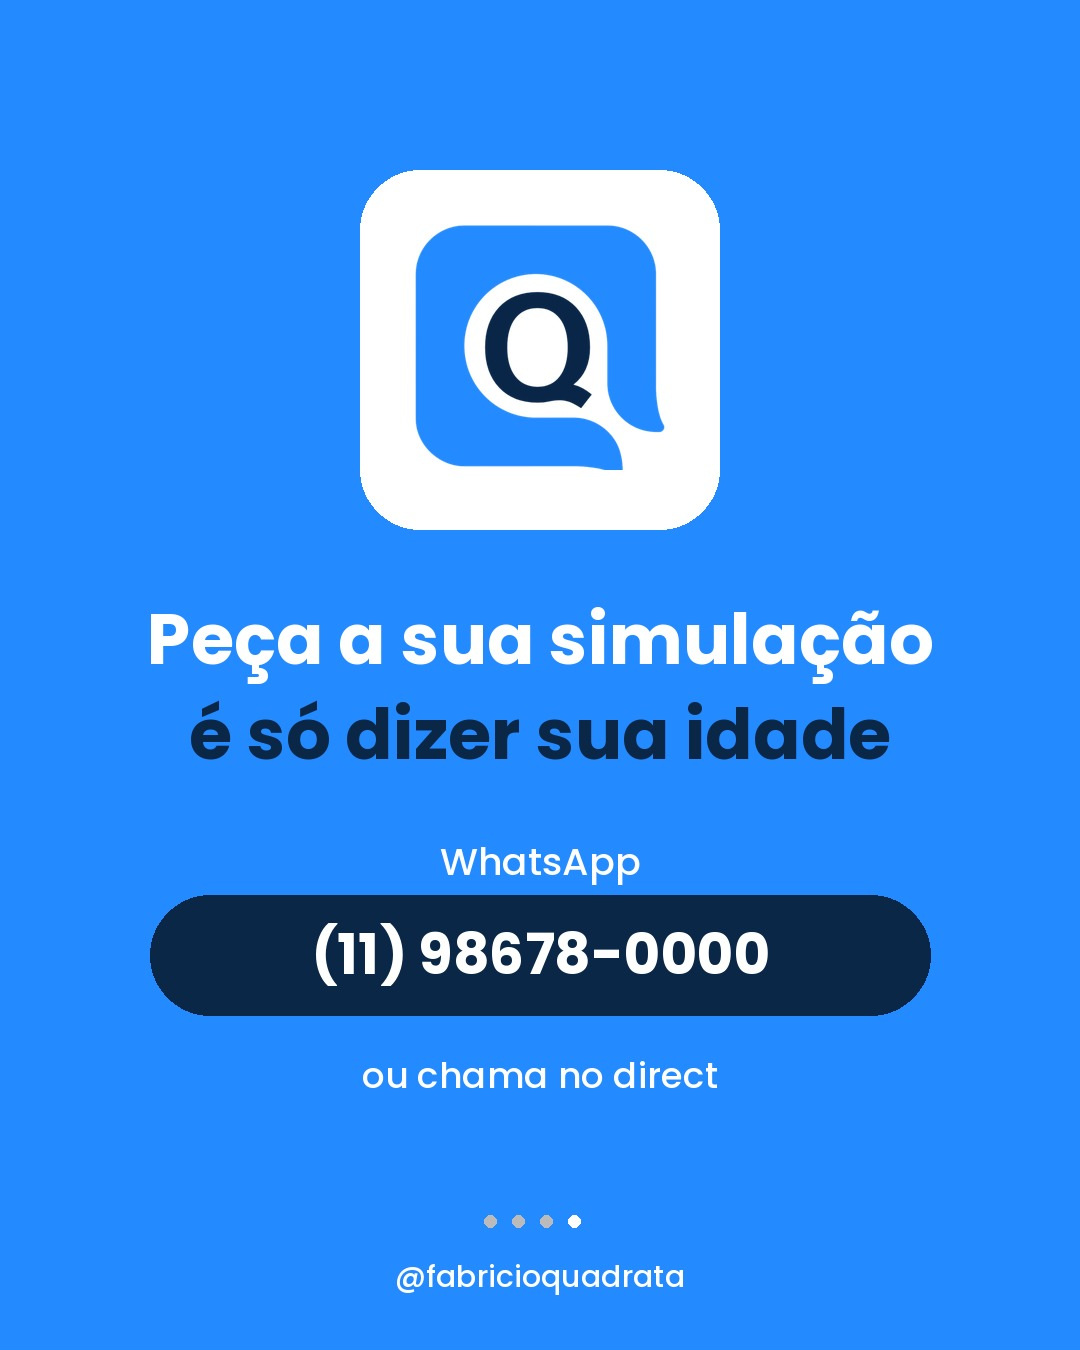
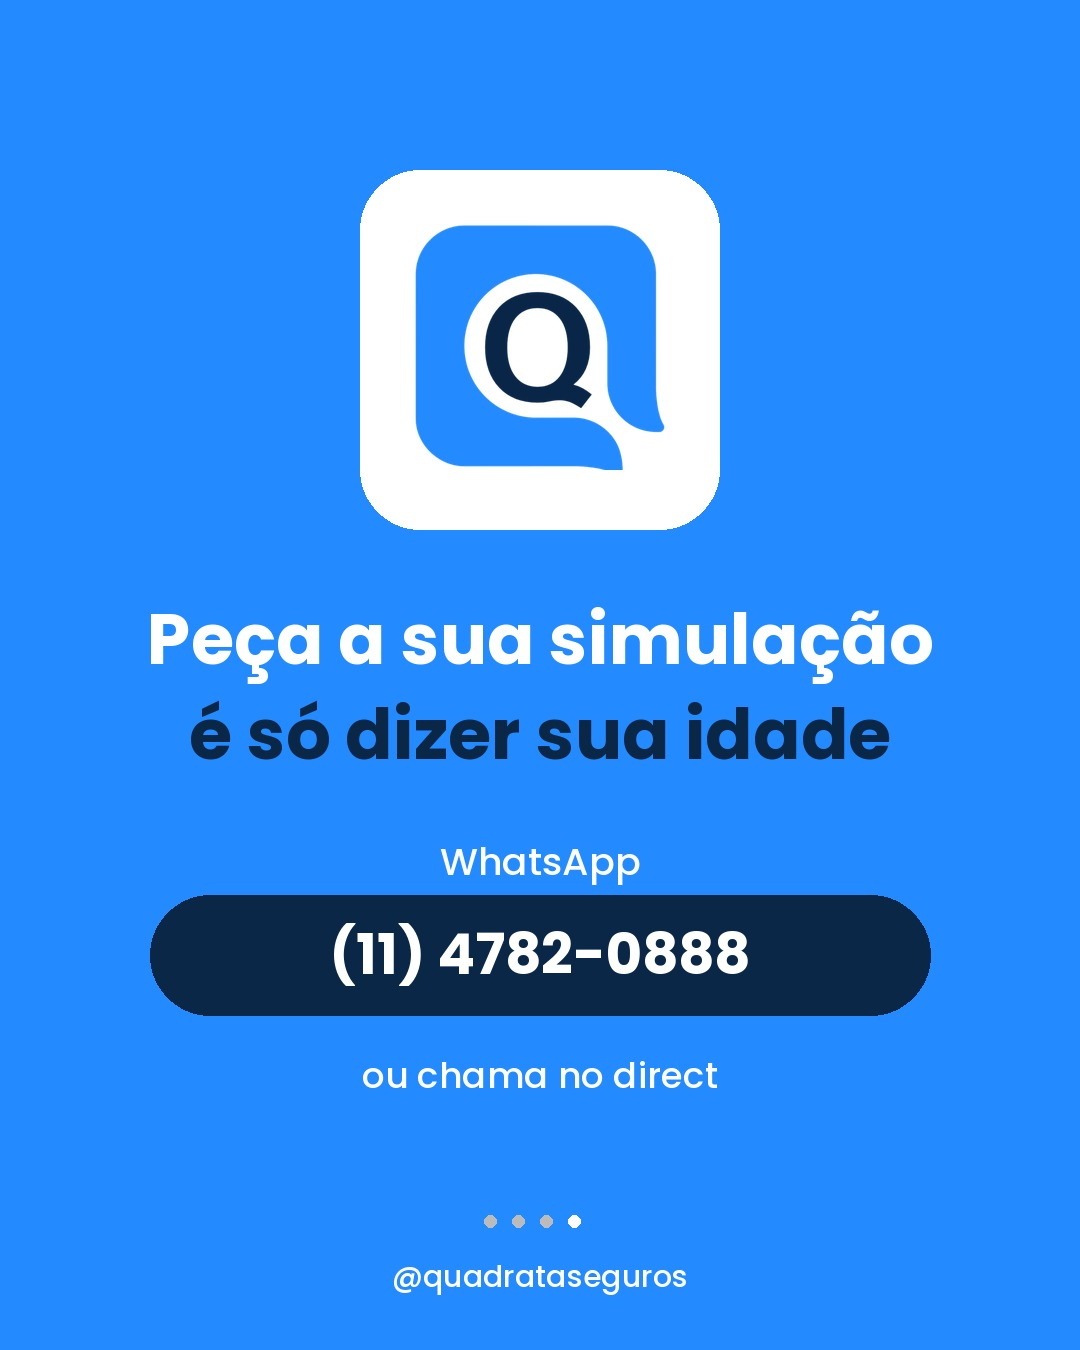
Post 017: troca perfil para @quadrataseguros e WhatsApp para (11) 4782-0888
Claude-Session: https://claude.ai/code/session_01Bu7jAGg4Kb6zrtwfSQtQAq

Changed region(s): [[0.275, 0.6844, 0.7333, 0.7467], [0.3667, 0.9333, 0.6417, 0.9644]]

diff --git a/posts/017_seguro_vida_valores/gerar_slides.py b/posts/017_seguro_vida_valores/gerar_slides.py
@@ -24,7 +24,7 @@ def ctext(d, y, t, font, fill):
 def rtext(d, xr, y, t, font, fill):
     w = d.textlength(t, font=font); d.text((xr - w, y), t, font=font, fill=fill)
 def footer(d, fill, active):
-    ctext(d, H - 95, '@fabricioquadrata', f('Medium', 30), fill)
+    ctext(d, H - 95, '@quadrataseguros', f('Medium', 30), fill)
     x0 = W / 2 - (N * 28) / 2
     for i in range(N):
         c = fill if i == active else (fill[0] // 2 + 60, fill[1] // 2 + 60, fill[2] // 2 + 60)
@@ -122,6 +122,6 @@ ctext(d, 590, 'Peça a sua simulação', f('Bold', 70), WHITE)
 ctext(d, 685, 'é só dizer sua idade', f('Bold', 70), NAVY)
 ctext(d, 835, 'WhatsApp', f('Medium', 38), WHITE)
 d.rounded_rectangle((150, 895, W - 150, 1015), radius=60, fill=NAVY)
-ctext(d, 915, '(11) 98678-0000', f('Bold', 56), WHITE)
+ctext(d, 915, '(11) 4782-0888', f('Bold', 56), WHITE)
 ctext(d, 1050, 'ou chama no direct', f('Medium', 36), WHITE)
 footer(d, WHITE, 3); save(im, 4)
